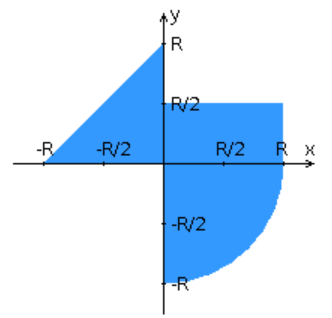
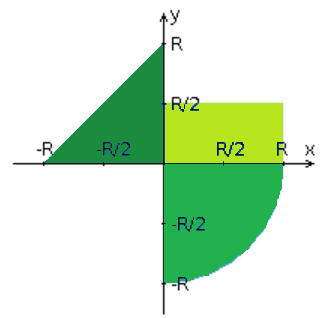
Закончиль

Changed region(s): [[0.1205, 0.1415, 0.8735, 0.9057]]

diff --git a/index.html b/index.html
@@ -2,110 +2,161 @@
 
 <head>
 	<title>web1</title>
+	<link rel="icon" href="images/frog.jpg">
+	<link href="https://fonts.googleapis.com/css2?family=Open+Sans&display=swap" rel="stylesheet">
 	<style>
-	#main_table {
-		width: 100%
+	body{
+		background-color: #DCEDC8;
+		font-family: "Open Sans", "Arial", sans-serif;
 	}
+	#main_table {
+		border-spacing: 10px;
+		width: 100%;
+	}
+	.vertical-elements{
+
+	}
+	#head-element{
+		font-size: 25px;
+		background-color: #689F38;
+	}
+	
+	#left-header {
+		width: 50%;
+		text-align: left;
+	}
+	
+	#right-header {
+		width: 50%;
+		text-align: right;
+	}
+	
+	#middle-headers{
+		text-align: center;
+		background-color: #8BC34A;
+		font-size: 20px;
+	}
+	
+	#middle-content{
+		background-color: white;
+	}
+	
+	img{
+		display: block;
+		margin-left: auto;
+		margin-right: auto 
+	}
+	
 	#input-grid {
-      width: 95%;
-      margin: auto;
-      text-align: center;
+		width: 95%;
+		margin: auto;
+		text-align: center;
     }
 
     .input-grid-label {
-      width: 12%;
-      font-weight: bold;
+		width: 12%;
+		font-weight: bold;
     }
     #y-textinput {
-      width: 75%;
-      height: 20px;
-      margin: 2% 0;
+		width: 75%;
+		height: 20px;
+		margin: 2% 0;
     }
 
     .text-error {
-      border: 1px solid #ff0000;
+		border: 1px solid #ff0000;
     }
 
     .box-error {
-      color: #ff0000;
+		color: #ff0000;
     }
 
     .text-error::placeholder {
-      color: #ff0000;
+		color: #ff0000;
     }
 
     .form-subtext {
-      padding-bottom: 2%;
-      font-size: 14px;
+		padding-bottom: 2%;
+		font-size: 14px;
     }
 
     .center-labeled {
-      display: inline-block;
-      position: relative;
-      margin: 0 1% 5%;
-      font-size: 14px;
+		display: inline-block;
+		position: relative;
+		margin: 0 1% 5%;
+		font-size: 14px;
     }
 
     .center-labeled label {
-      position: absolute;
-      top: 18px;
-      left: 6px;
+		position: absolute;
+		top: 18px;
+		left: 6px;
     }
 
     .center-labeled .negative-labled {
-      left: 7px;
+		left: 7px;
     }
 
     .center-labeled .add-labeled {
-      left: 7px;
+		left: 7px;
     }
 
     .buttons {
-      margin-top: 3%;
-    }
-
-    .buttons::before {
-      content: "";
-      display: block;
-      height: 2px;
-      width: 60px;
-      margin: 0 auto 4%;
-      background-color: #6c43af;
+		margin-top: 3%;
     }
 
     .button {
-      height: 27px;
-      width: 70px;
-      font-family: "Open Sans", "Arial", sans-serif;
-      color: #ffffff;
-      background-color: #6c43af;
-      border: none;
+		height: 27px;
+		width: 70px;
+		color: #ffffff;
+		background-color: #8BC34A;
+		border: none;
     }
 
     .button:hover {
-      background-color: #513284;
+		background-color: #CDDC39;
     }
 	
 	#result-table {
-		width=100%
+		width: 100%;
+		background-color: white;
 	}
 	.table-collumn {
-		width=16.6%
+		width: 16.6%;
+	}
+	
+	#header-row {
+		background-color: #8BC34A;
+		text-align: center;
+	}
+	
+	#result-table tr:nth-child(2n+3) {
+		background-color: #8FCF4F;
+	}
+	#result-table tr:nth-child(2n+2) {
+		background-color: #DCEDC8;
+	}
+	
+	#result-table tr:nth-child(2n+2):hover {
+		background-color: #BDBDBD;
+	}
+	#result-table tr:nth-child(2n+3):hover {
+		background-color: #757575;
 	}
 	</style>
 </head>
 
 <body>
 	<table id="main_table">
-		<tr>
-			<td>
+		<tr id="head-element" class="vertical-elements">
+			<td id="left-header">
 				Кальвияйнен Ярослав, P3232
 			</td>
-			<td>
+			<td id="right-header">
 				Вариант 32006
 			</td>
 		</tr>
-		<tr>
+		<tr class="vertical-elements" id="middle-headers">
 			<td>
 				График (Только показываю)
 			</td>
@@ -113,7 +164,7 @@
 				Данные
 			</td>
 		</tr>
-		<tr>
+		<tr class="vertical-elements" id="middle-content">
 			<td>
 				<img src="images/grafic.png" alt="Потерял график(((">
 			</td>
@@ -228,10 +279,10 @@
 				</form>
 			</td>
 		</tr>
-		<tr>
+		<tr class="vertical-elements">
 			<td colspan="2">
 				<table  id="result-table">
-					<tr>
+					<tr id="header-row">
 						<td class="table-collumn">X</td>
 						<td class="table-collumn">Y</td>
 						<td class="table-collumn">R</td>
